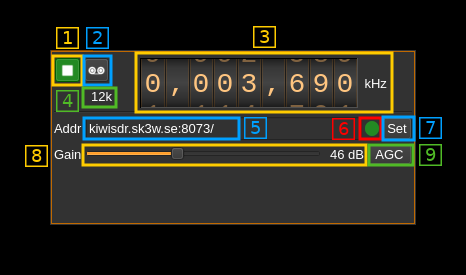
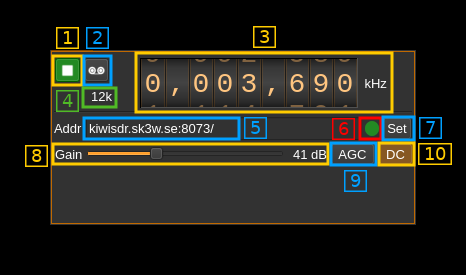
KiwiSDR: added a DC block

Changed region(s): [[0.0901, 0.4945, 0.9914, 0.6982]]

diff --git a/sdrbase/resources/webapi/doc/html2/index.html b/sdrbase/resources/webapi/doc/html2/index.html
@@ -3098,6 +3098,9 @@ margin-bottom: 20px;
       "type" : "integer",
       "description" : "AGC active (1 for yes, 0 for no)"
     },
+    "dcBlock" : {
+      "type" : "integer"
+    },
     "centerFrequency" : {
       "type" : "integer",
       "format" : "int64"
@@ -25151,7 +25154,7 @@ except ApiException as e:
           </div>
           <div id="generator">
             <div class="content">
-              Generated 2019-06-09T01:28:52.118+02:00
+              Generated 2019-06-09T20:39:26.572+02:00
             </div>
           </div>
       </div>

diff --git a/swagger/sdrangel/code/html2/index.html b/swagger/sdrangel/code/html2/index.html
@@ -3098,6 +3098,9 @@ margin-bottom: 20px;
       "type" : "integer",
       "description" : "AGC active (1 for yes, 0 for no)"
     },
+    "dcBlock" : {
+      "type" : "integer"
+    },
     "centerFrequency" : {
       "type" : "integer",
       "format" : "int64"
@@ -25151,7 +25154,7 @@ except ApiException as e:
           </div>
           <div id="generator">
             <div class="content">
-              Generated 2019-06-09T01:28:52.118+02:00
+              Generated 2019-06-09T20:39:26.572+02:00
             </div>
           </div>
       </div>

diff --git a/swagger/sdrangel/code/qt5/client/SWGKiwiSDRSettings.cpp b/swagger/sdrangel/code/qt5/client/SWGKiwiSDRSettings.cpp
@@ -32,6 +32,8 @@ SWGKiwiSDRSettings::SWGKiwiSDRSettings() {
     m_gain_isSet = false;
     use_agc = 0;
     m_use_agc_isSet = false;
+    dc_block = 0;
+    m_dc_block_isSet = false;
     center_frequency = 0L;
     m_center_frequency_isSet = false;
     server_address = nullptr;
@@ -58,6 +60,8 @@ SWGKiwiSDRSettings::init() {
     m_gain_isSet = false;
     use_agc = 0;
     m_use_agc_isSet = false;
+    dc_block = 0;
+    m_dc_block_isSet = false;
     center_frequency = 0L;
     m_center_frequency_isSet = false;
     server_address = new QString("");
@@ -76,6 +80,7 @@ SWGKiwiSDRSettings::init() {
 
 void
 SWGKiwiSDRSettings::cleanup() {
+
 
 
 
@@ -107,6 +112,8 @@ SWGKiwiSDRSettings::fromJsonObject(QJsonObject &pJson) {
     ::SWGSDRangel::setValue(&gain, pJson["gain"], "qint32", "");
     
     ::SWGSDRangel::setValue(&use_agc, pJson["useAGC"], "qint32", "");
+    
+    ::SWGSDRangel::setValue(&dc_block, pJson["dcBlock"], "qint32", "");
     
     ::SWGSDRangel::setValue(&center_frequency, pJson["centerFrequency"], "qint64", "");
     
@@ -143,6 +150,9 @@ SWGKiwiSDRSettings::asJsonObject() {
     }
     if(m_use_agc_isSet){
         obj->insert("useAGC", QJsonValue(use_agc));
+    }
+    if(m_dc_block_isSet){
+        obj->insert("dcBlock", QJsonValue(dc_block));
     }
     if(m_center_frequency_isSet){
         obj->insert("centerFrequency", QJsonValue(center_frequency));
@@ -187,6 +197,16 @@ void
 SWGKiwiSDRSettings::setUseAgc(qint32 use_agc) {
     this->use_agc = use_agc;
     this->m_use_agc_isSet = true;
+}
+
+qint32
+SWGKiwiSDRSettings::getDcBlock() {
+    return dc_block;
+}
+void
+SWGKiwiSDRSettings::setDcBlock(qint32 dc_block) {
+    this->dc_block = dc_block;
+    this->m_dc_block_isSet = true;
 }
 
 qint64
@@ -266,6 +286,7 @@ SWGKiwiSDRSettings::isSet(){
     do{
         if(m_gain_isSet){ isObjectUpdated = true; break;}
         if(m_use_agc_isSet){ isObjectUpdated = true; break;}
+        if(m_dc_block_isSet){ isObjectUpdated = true; break;}
         if(m_center_frequency_isSet){ isObjectUpdated = true; break;}
         if(server_address != nullptr && *server_address != QString("")){ isObjectUpdated = true; break;}
         if(file_record_name != nullptr && *file_record_name != QString("")){ isObjectUpdated = true; break;}

diff --git a/plugins/samplesource/kiwisdr/kiwisdrinput.cpp b/plugins/samplesource/kiwisdr/kiwisdrinput.cpp
@@ -302,6 +302,12 @@ bool KiwiSDRInput::applySettings(const KiwiSDRSettings& settings, bool force)
 		emit setWorkerGain(settings.m_gain, settings.m_useAGC);
 	}
 
+    if (m_settings.m_dcBlock != settings.m_dcBlock)
+    {
+        reverseAPIKeys.append("dcBlock");
+        m_deviceAPI->configureCorrections(settings.m_dcBlock, false);
+    }
+
     if (m_settings.m_centerFrequency != settings.m_centerFrequency || force)
     {
         reverseAPIKeys.append("centerFrequency");
@@ -382,6 +388,9 @@ int KiwiSDRInput::webapiSettingsPutPatch(
     if (deviceSettingsKeys.contains("useAGC")) {
         settings.m_useAGC = response.getKiwiSdrSettings()->getUseAgc();
     }
+    if (deviceSettingsKeys.contains("dcBlock")) {
+        settings.m_dcBlock = response.getKiwiSdrSettings()->getDcBlock() != 0;
+    }
     if (deviceSettingsKeys.contains("centerFrequency")) {
         settings.m_centerFrequency = response.getKiwiSdrSettings()->getCenterFrequency();
     }
@@ -432,6 +441,7 @@ void KiwiSDRInput::webapiFormatDeviceSettings(SWGSDRangel::SWGDeviceSettings& re
 {
     response.getKiwiSdrSettings()->setGain(settings.m_gain);
     response.getKiwiSdrSettings()->setUseAgc(settings.m_useAGC ? 1 : 0);
+    response.getKiwiSdrSettings()->setDcBlock(settings.m_dcBlock ? 1 : 0);
     response.getKiwiSdrSettings()->setCenterFrequency(settings.m_centerFrequency);
 
     if (response.getKiwiSdrSettings()->getServerAddress()) {
@@ -479,6 +489,9 @@ void KiwiSDRInput::webapiReverseSendSettings(QList<QString>& deviceSettingsKeys,
     }
     if (deviceSettingsKeys.contains("useAGC")) {
         swgKiwiSDRSettings->setUseAgc(settings.m_useAGC ? 1 : 0);
+    }
+    if (deviceSettingsKeys.contains("dcBlock") || force) {
+        swgKiwiSDRSettings->setDcBlock(settings.m_dcBlock ? 1 : 0);
     }
     if (deviceSettingsKeys.contains("centerFrequency") || force) {
         swgKiwiSDRSettings->setCenterFrequency(settings.m_centerFrequency);

diff --git a/swagger/sdrangel/code/qt5/client/SWGKiwiSDRSettings.h b/swagger/sdrangel/code/qt5/client/SWGKiwiSDRSettings.h
@@ -48,6 +48,9 @@ public:
     qint32 getUseAgc();
     void setUseAgc(qint32 use_agc);
 
+    qint32 getDcBlock();
+    void setDcBlock(qint32 dc_block);
+
     qint64 getCenterFrequency();
     void setCenterFrequency(qint64 center_frequency);
 
@@ -78,6 +81,9 @@ private:
 
     qint32 use_agc;
     bool m_use_agc_isSet;
+
+    qint32 dc_block;
+    bool m_dc_block_isSet;
 
     qint64 center_frequency;
     bool m_center_frequency_isSet;

diff --git a/plugins/samplesource/kiwisdr/kiwisdrgui.h b/plugins/samplesource/kiwisdr/kiwisdrgui.h
@@ -85,6 +85,7 @@ private slots:
 	void on_agc_toggled(bool checked);
 	void on_serverAddress_returnPressed();
 	void on_serverAddressApplyButton_clicked();
+  	void on_dcBlock_toggled(bool checked);
 	void openDeviceSettingsDialog(const QPoint& p);
     void updateStatus();
     void updateHardware();

diff --git a/plugins/samplesource/kiwisdr/kiwisdrgui.cpp b/plugins/samplesource/kiwisdr/kiwisdrgui.cpp
@@ -165,6 +165,12 @@ void KiwiSDRGui::on_serverAddressApplyButton_clicked()
 	sendSettings();
 }
 
+void KiwiSDRGui::on_dcBlock_toggled(bool checked)
+{
+	m_settings.m_dcBlock = checked;
+	sendSettings();
+}
+
 void KiwiSDRGui::on_record_toggled(bool checked)
 {
     if (checked) {

diff --git a/plugins/samplesource/kiwisdr/kiwisdrsettings.h b/plugins/samplesource/kiwisdr/kiwisdrsettings.h
@@ -25,6 +25,7 @@
 struct KiwiSDRSettings {
 	uint32_t m_gain;
 	bool m_useAGC;
+    bool m_dcBlock;
 
     quint64 m_centerFrequency;
 	QString m_serverAddress;

diff --git a/plugins/samplesource/kiwisdr/kiwisdrsettings.cpp b/plugins/samplesource/kiwisdr/kiwisdrsettings.cpp
@@ -30,6 +30,7 @@ void KiwiSDRSettings::resetToDefaults()
 
 	m_gain = 20;
 	m_useAGC = true;
+    m_dcBlock = false;
 
 	m_serverAddress = "127.0.0.1:8073";
 

diff --git a/plugins/samplesource/kiwisdr/readme.md b/plugins/samplesource/kiwisdr/readme.md
@@ -2,7 +2,7 @@
 
 <h2>Introduction</h2>
 
-This plugin is designed to enable connection to publicly available [KiwiSDR](http://kiwisdr.com/) receivers. A list of on-line receiver is available [here](https://sdr.hu/?q=kiwisdr)
+This plugin is designed to enable connection to publicly available [KiwiSDR](http://kiwisdr.com/) receivers. A list of on-line receivers is available [here](https://sdr.hu/?q=kiwisdr)
 
 <h2>Interface</h2>
 
@@ -58,3 +58,7 @@ This is the RF gain control sent to the remote
 <h3>9: AGC</h3>
 
 Use this button to switch on or off the AGC in the remote
+
+<h3>10: DC block</h3>
+
+Some remote receivers exhibit a peak at DC. Use this button to filter DC out.
